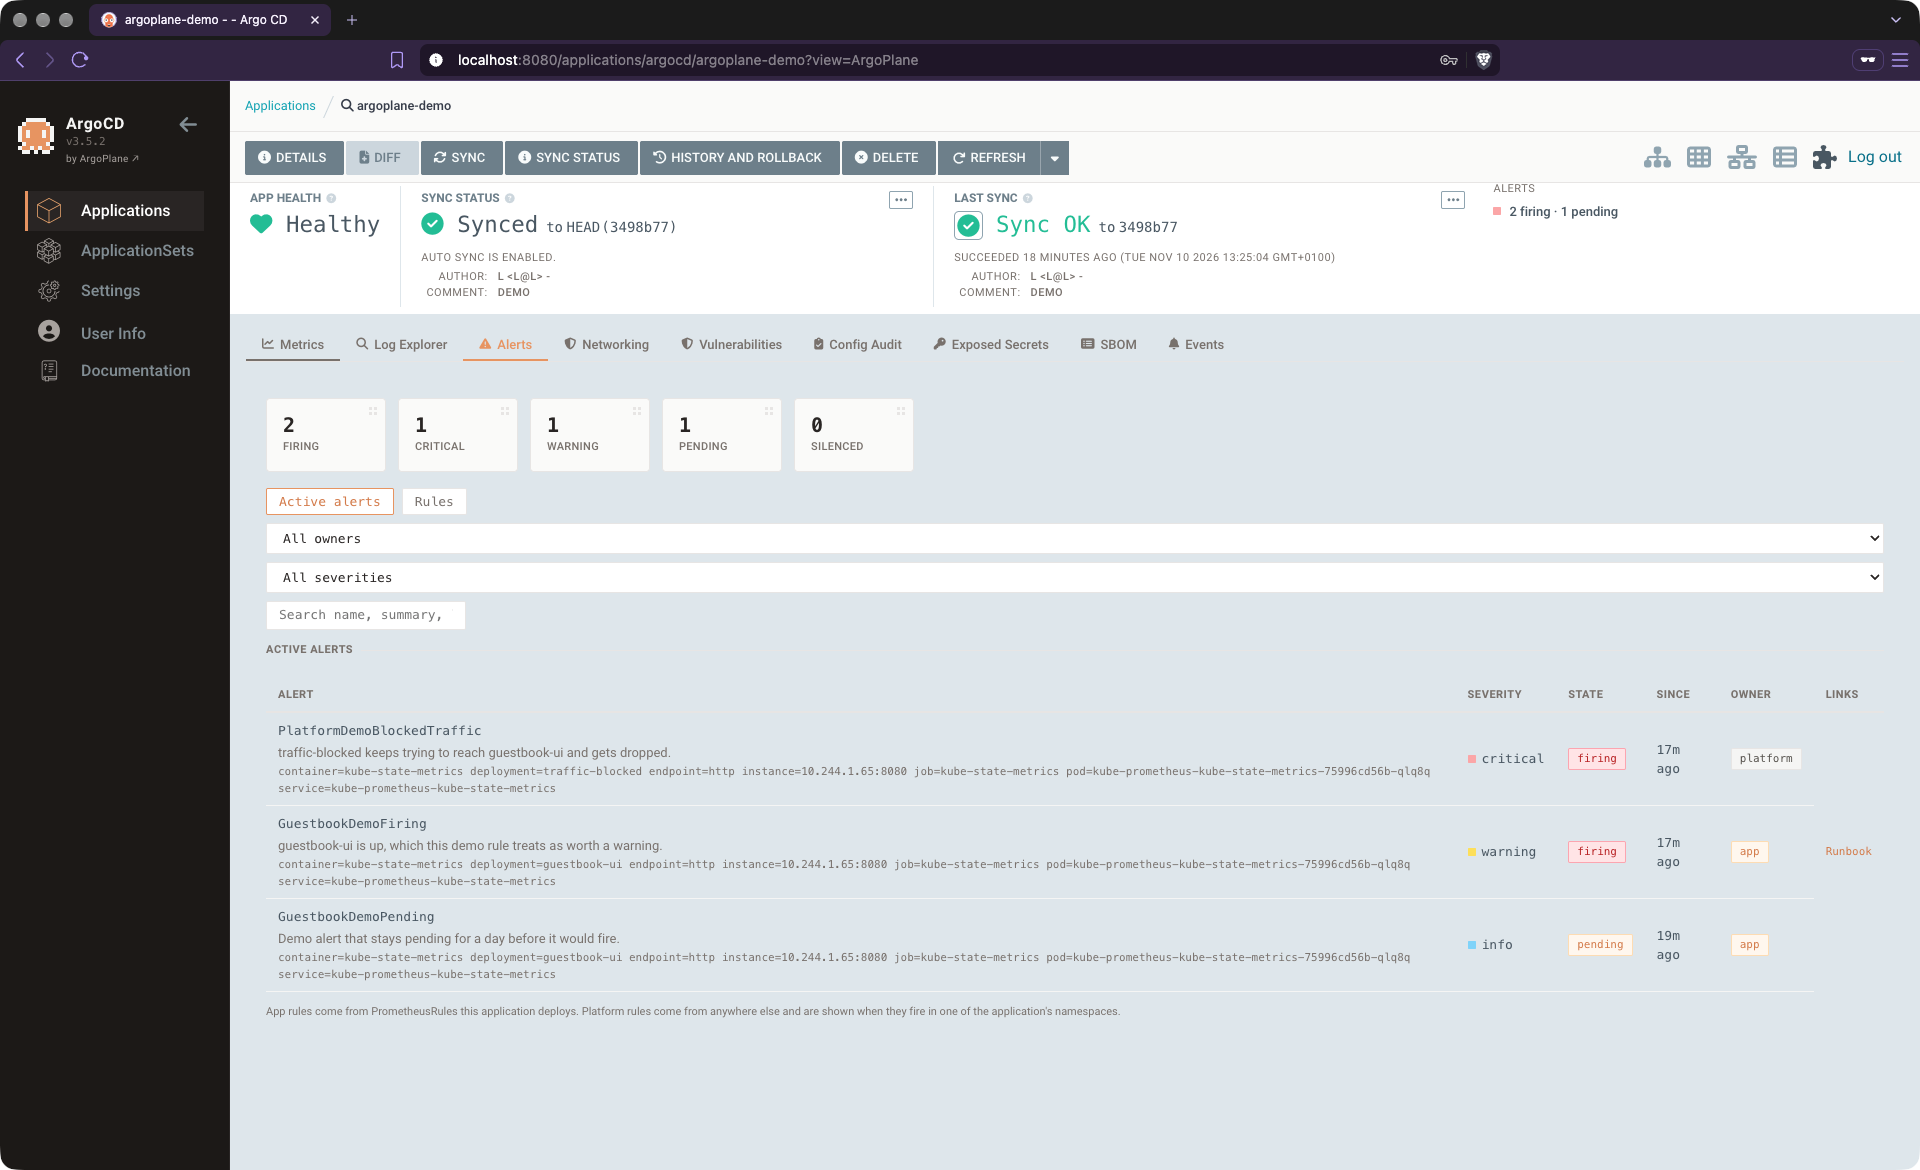
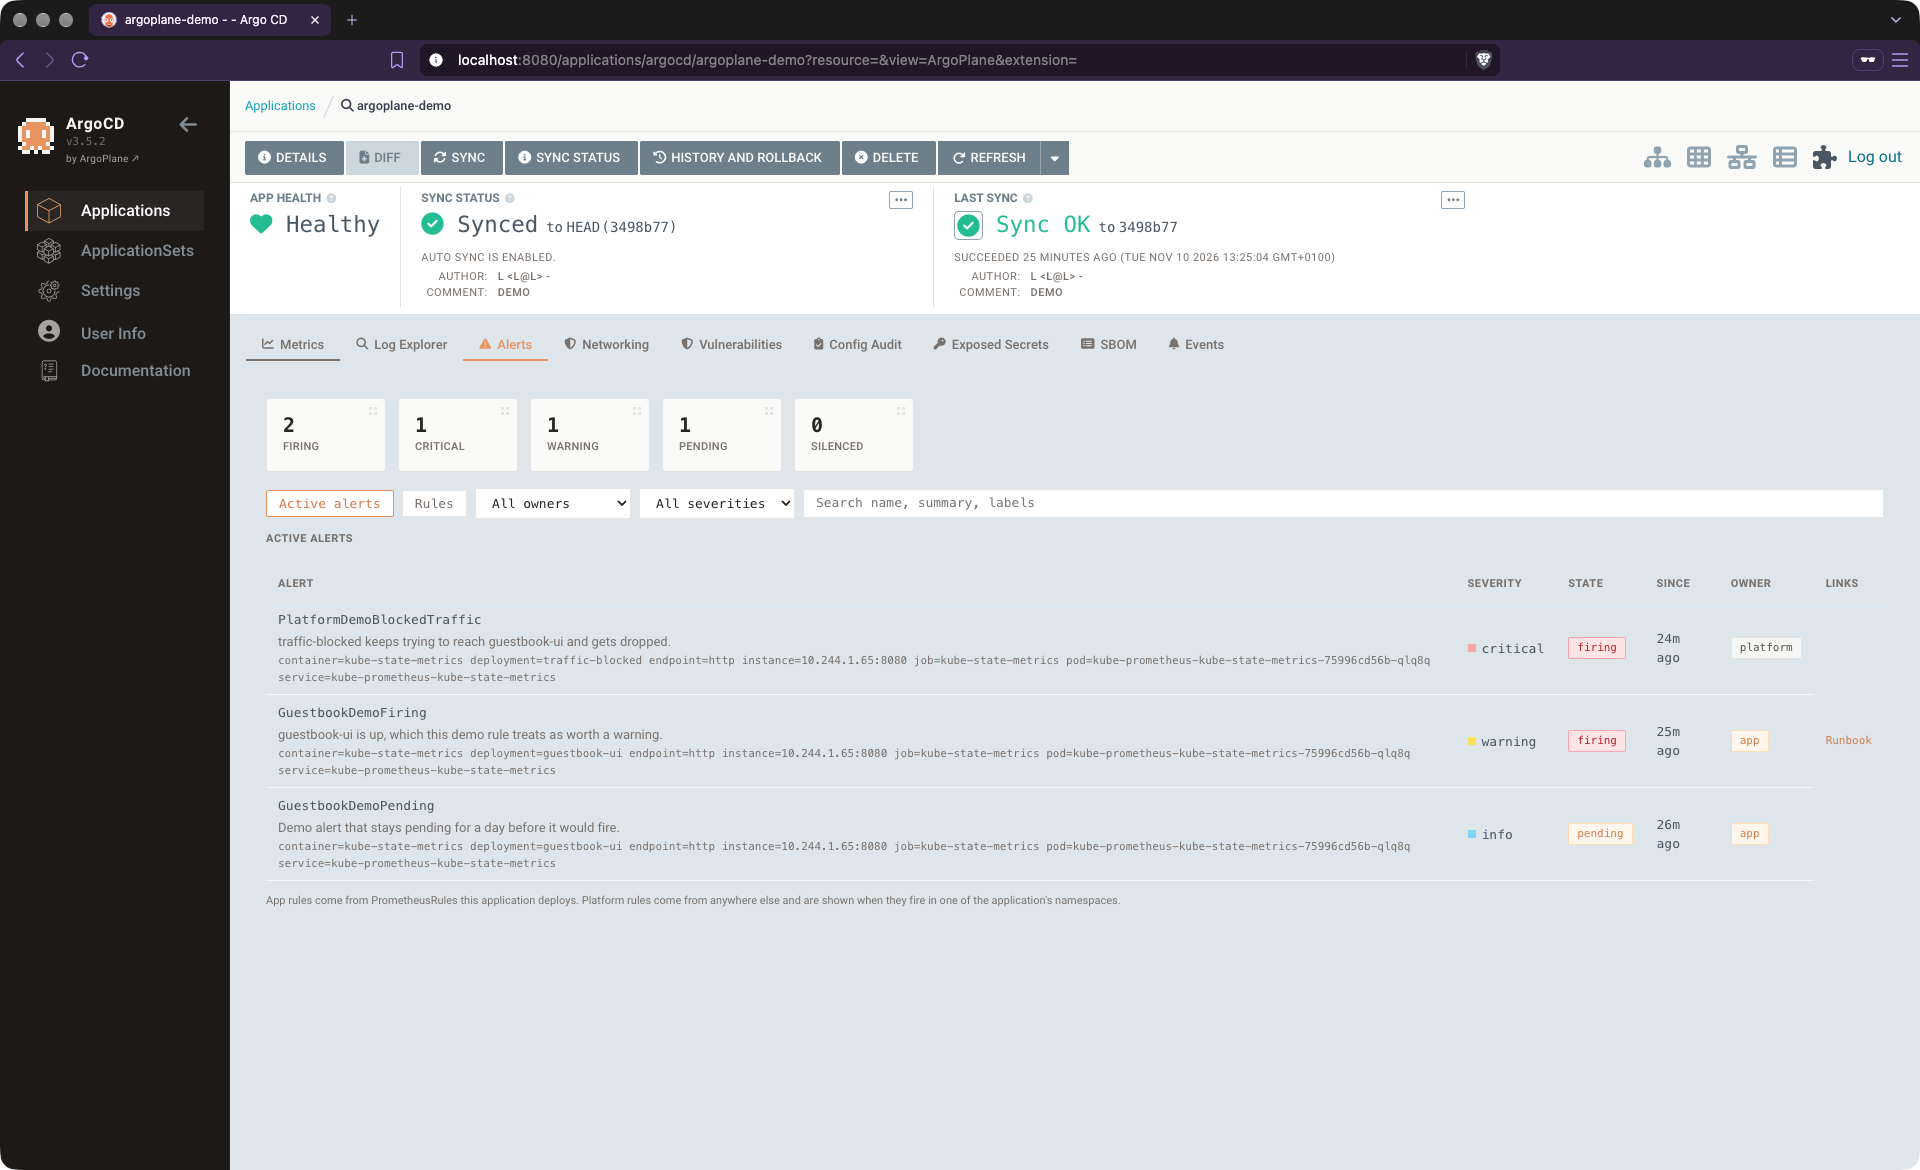
fix(alerts): drop the header status panel, keep filters on one row
ArgoPlane removed its app-header status panels in March as clutter;
alerts brought one back. The app view and resource tabs carry the same
information. ArgoCD's stylesheet also stretched the filter selects to
full width, pushing the search onto its own cramped line.

diff --git a/extensions/alerts/ui/src/components/AppAlertsView.tsx b/extensions/alerts/ui/src/components/AppAlertsView.tsx
@@ -20,6 +20,10 @@ import { Note } from './common';
 type View = 'alerts' | 'rules';
 type OwnerFilter = 'all' | 'app' | 'platform';
 
+// ArgoCD's stylesheet gives selects full width; fix them to their content so
+// the toggles, filters and search share one row.
+const select: React.CSSProperties = { ...inputStyle, cursor: 'pointer', width: 'auto', flex: '0 0 auto' };
+
 const toggle = (active: boolean): React.CSSProperties => ({
   ...inputStyle,
   cursor: 'pointer',
@@ -73,13 +77,13 @@ export const AppAlertsView: React.FC<{ application: any; tree?: any }> = ({ appl
         <button style={toggle(view === 'rules')} onClick={() => setView('rules')}>Rules</button>
         {view === 'alerts' && (
           <>
-            <select style={{ ...inputStyle, cursor: 'pointer' }} value={owner}
+            <select style={select} value={owner}
               onChange={(e) => setOwner(e.target.value as OwnerFilter)}>
               <option value="all">All owners</option>
               <option value="app">App rules</option>
               <option value="platform">Platform rules</option>
             </select>
-            <select style={{ ...inputStyle, cursor: 'pointer' }} value={severity}
+            <select style={select} value={severity}
               onChange={(e) => setSeverity(e.target.value as 'all' | Severity)}>
               <option value="all">All severities</option>
               <option value="critical">Critical</option>
@@ -87,7 +91,7 @@ export const AppAlertsView: React.FC<{ application: any; tree?: any }> = ({ appl
               <option value="info">Info</option>
               <option value="unknown">Unknown</option>
             </select>
-            <input style={{ ...inputStyle, minWidth: 200 }} placeholder="Search name, summary, labels"
+            <input style={{ ...inputStyle, flex: '1 1 200px', minWidth: 200, width: 'auto' }} placeholder="Search name, summary, labels"
               value={search} onChange={(e) => setSearch(e.target.value)} />
           </>
         )}

diff --git a/extensions/alerts/ui/src/index.tsx b/extensions/alerts/ui/src/index.tsx
@@ -1,7 +1,6 @@
 import { registerArgoPlaneView, registerArgoPlaneResourceTab } from '@argoplane/shared';
 import { AppAlertsView } from './components/AppAlertsView';
 import { AlertsPanel } from './components/AlertsPanel';
-import { AlertsStatusPanel } from './components/AlertsStatusPanel';
 
 registerArgoPlaneView({
   id: 'alerts',
@@ -22,11 +21,3 @@ registerArgoPlaneResourceTab('apps', 'Deployment', entry);
 registerArgoPlaneResourceTab('apps', 'StatefulSet', entry);
 registerArgoPlaneResourceTab('apps', 'DaemonSet', entry);
 registerArgoPlaneResourceTab('batch', 'Job', entry);
-
-// The header item opens the same view in ArgoCD's flyout.
-(window as any).extensionsAPI?.registerStatusPanelExtension(
-  AlertsStatusPanel,
-  'Alerts',
-  'argoplane_alerts',
-  AppAlertsView,
-);

diff --git a/docs/extension-roadmap.md b/docs/extension-roadmap.md
@@ -28,7 +28,7 @@ ArgoCD v3.x provides six registration methods. ArgoPlane uses most of them:
 | Observe | **logs** | Historical log search, label-based filtering, severity detection, time range selection, volume charts. No live tail (ArgoCD's built-in Logs tab handles real-time pod streaming; Loki's tail API uses WebSocket which the proxy extension mechanism does not support). | Loki | Resource tabs (Pod, Deployment, StatefulSet) + App view |
 | Secure | **vulnerabilities** | Image vulnerability scanning (CVEs), config audit, exposed secrets detection, SBOM inventory. Per-image severity breakdown, CSV export, deduplication across ReplicaSets. | Trivy Operator (K8s API) | App view (4 tabs: Vulnerabilities, Config Audit, Exposed Secrets, SBOM) |
 | Observe | **events** | Kubernetes events per resource and application. Warning/Normal event filtering, timeline view. | Kubernetes API | Resource tabs + App view |
-| Observe | **alerts** | Firing and pending alerts per app, app vs platform ownership from the PrometheusRule that defines them, rule health, runbook and dashboard links. Read-only; silences planned. | Prometheus rules API (Prometheus, Thanos, Mimir, vmalert), optional Alertmanager | Status panel + App view + Resource tabs (Pod, Deployment, StatefulSet, DaemonSet, Job) |
+| Observe | **alerts** | Firing and pending alerts per app, app vs platform ownership from the PrometheusRule that defines them, rule health, runbook and dashboard links. Read-only; silences planned. | Prometheus rules API (Prometheus, Thanos, Mimir, vmalert), optional Alertmanager | App view + Resource tabs (Pod, Deployment, StatefulSet, DaemonSet, Job) |
 
 ## Next
 

diff --git a/.claude/rules/example-app.md b/.claude/rules/example-app.md
@@ -28,7 +28,7 @@ The demo app uses the public `argocd-example-apps/guestbook` repo as the ArgoCD 
 | **Networking** | App view (application detail) + Pod resource tab | Any ArgoCD Application + `/Pod` | `guestbook-ui` Deployment + 2 app CiliumNetworkPolicies + 2 platform CiliumClusterwideNetworkPolicies + 2 platform CiliumNetworkPolicies + cross-ns traffic + Hubble flows |
 | **Logs** | Resource tab (Pod, Deployment, StatefulSet) + App view (Log Explorer) | `apps/Deployment`, `apps/StatefulSet`, `/Pod` + Any ArgoCD Application | `guestbook-ui` Deployment pods (requires Loki + Alloy collecting logs) |
 | **Vulnerabilities** | App view (4 tabs: Vulnerabilities, Config Audit, Exposed Secrets, SBOM) | Any ArgoCD Application | `guestbook-ui` Deployment images (requires Trivy Operator scanning workloads) |
-| **Alerts** | Status panel + App view + Resource tab (Pod, Deployment, StatefulSet, DaemonSet, Job) | Any ArgoCD Application + workloads | `guestbook-alerts` PrometheusRule (app: one firing, one pending) + `platform-demo-alerts` PrometheusRule in `monitoring` (platform: critical) |
+| **Alerts** | App view + Resource tab (Pod, Deployment, StatefulSet, DaemonSet, Job) | Any ArgoCD Application + workloads | `guestbook-alerts` PrometheusRule (app: one firing, one pending) + `platform-demo-alerts` PrometheusRule in `monitoring` (platform: critical) |
 
 ## When Adding a New Extension
 
